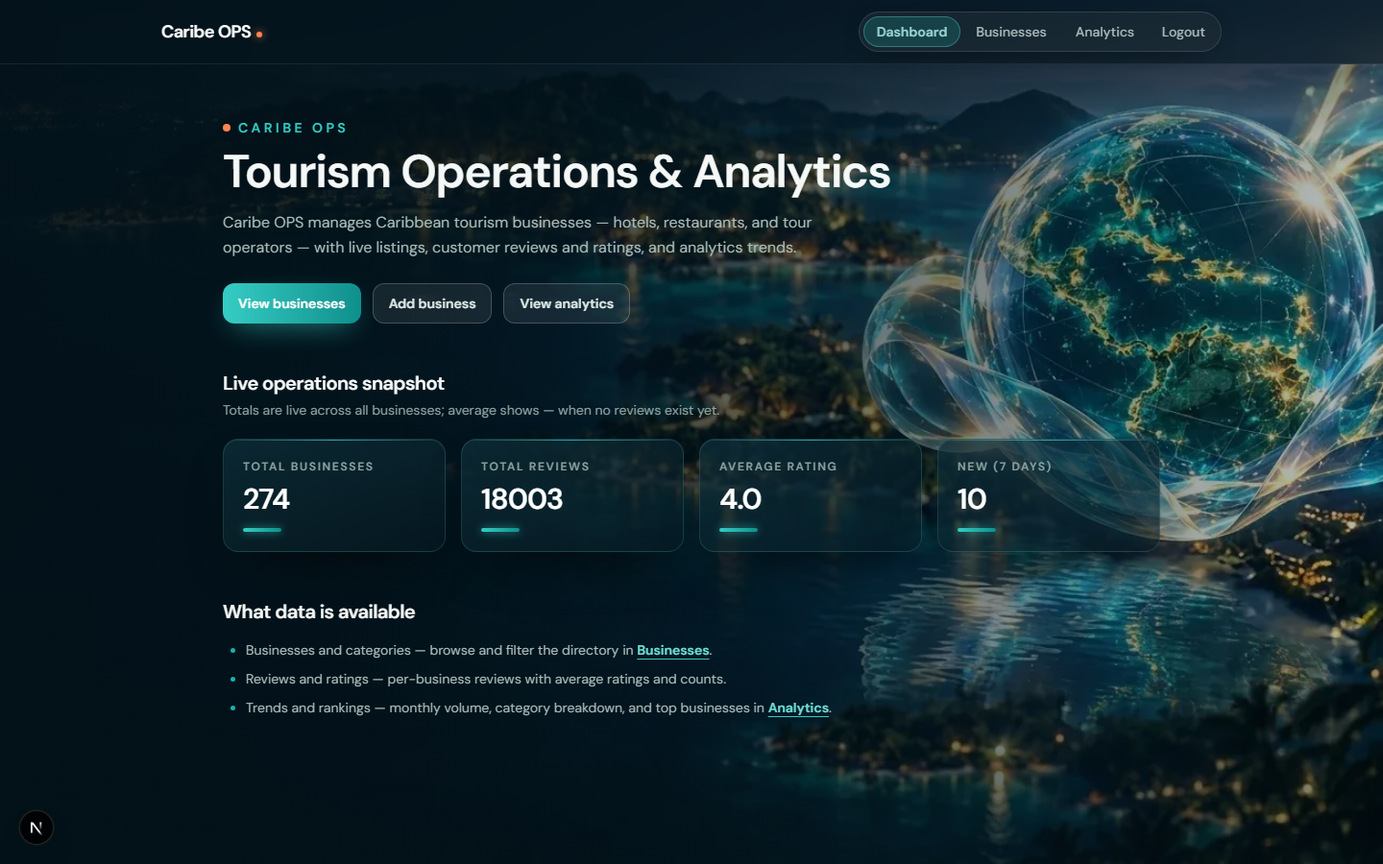
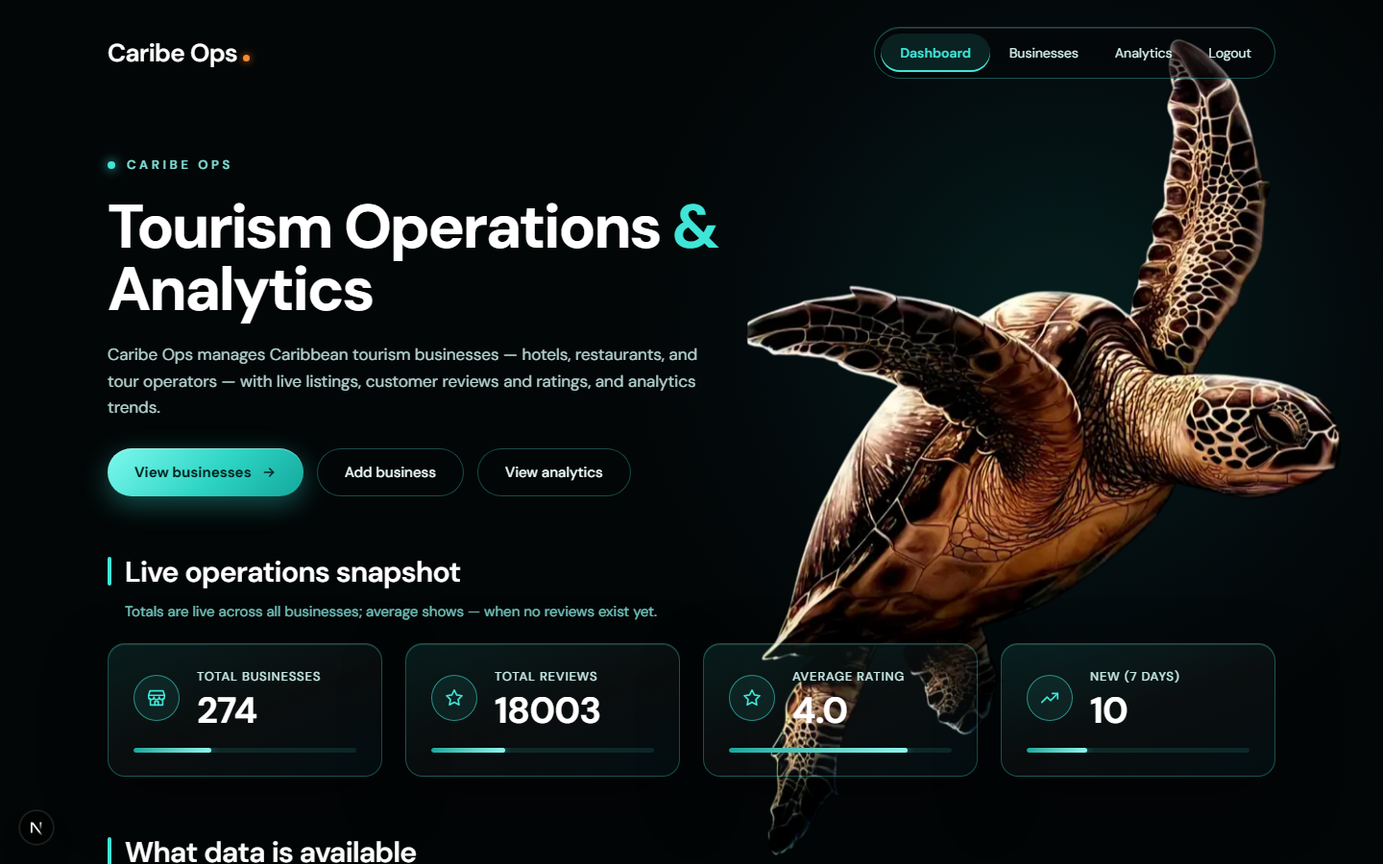
docs: redesign plan, MEMORY update and regenerated screenshots
Screenshot script waits for the 2s animal entrance and matches the new
donut viewBox.

diff --git a/docs/plans/glass-animal-redesign-all-views.md b/docs/plans/glass-animal-redesign-all-views.md
@@ -1,0 +1,147 @@
+# Plan: Rediseño visual "Login Ojo del Caribe" — fondo negro, vidrio y un animal por pantalla
+
+- **Task**: "Lee este diseño: Login Ojo del Caribe. Tiene 4 pantallas (Login, Dashboard, Analytics, Businesses). Rediseña mi web para que se vea igual: fondo negro, tarjetas de vidrio, un animal en cada pantalla con su animación de entrada, y la paleta de colores de cada página. Conserva mi lógica y mis datos reales; cambia solo la parte visual. Descarga también las imágenes de los animales que usa el diseño."
+- **Date**: 2026-10-23
+- **Status**: Implemented 2026-10-23 — verified (tsc 0, eslint 0, vitest 53/53, build 0, e2e 1/1, desktop + phone screenshots reviewed)
+
+## User decisions at approval (2026-10-23, override the plan where they differ)
+
+> "aprobado y respeta el nombre "Caribe Ops y un punto naranja" apesar que haya otros nombre o diseños ese es el que siempre debe estar y en el nevbar aveces aparece la opcion "login" eso quitalo no tiener sentido despues de ahi las paginas y sus derivados debe ser totalmente igual al diseño que estamos proponiendo"
+
+1. **Marca**: siempre el texto **"Caribe Ops"** + **punto naranja** (nav, login, título de pestaña y textos de la app), por encima de cualquier otro nombre del diseño ("ojo del caribe", "Caribe OPS", logo del ojo).
+2. **Navbar**: se elimina por completo el link **"Login"** (también para usuarios anónimos). Comportamiento nuevo: `NavLinks.test` se actualiza para reflejarlo.
+3. **Fidelidad**: las 4 páginas y sus derivadas (`/businesses/new`, `/businesses/[id]`, loading/error) deben ser iguales al diseño — layout, tamaños, header de cada página (Dashboard con pill grande sin barra; Analytics/Businesses con barra superior), dona y curva de Analytics (los componentes ya son dona/área: se ajusta su geometría y color al artboard), tarjetas KPI con icono y barra en el Dashboard. Los datos siguen siendo los reales.
+- **Design source**: Claude Design canvas "Login Ojo del Caribe" — https://claude.ai/artifact/QQ23fkG5dCiuMP2njy4Pnr (artboards `Main` = Login/Lapa, `Dashboard` = Tortuga, `Analytics` = Jaguar, `Businesses` = Perezoso)
+
+## Desired outcome
+
+Cada ruta de `frontend/next` se ve como su artboard del diseño:
+
+| Ruta | Animal (entrada) | Fondo | Acento principal | Acento secundario |
+|---|---|---|---|---|
+| `/login` | Lapa (guacamaya) — abajo a la derecha, emerge con blur → nítido | `#050505` | naranja `#FF7A1A` / amarillo `#FFC72C` | rojo `#E2231A` |
+| `/` (Dashboard) | Tortuga marina — arriba a la derecha | `#030607` | cian `#3FE6D8` | teal `#14A89C` |
+| `/analytics` | Jaguar — fijo a la izquierda | `#040503` | oliva `#B7CB5E` | ámbar `#F2A93B` |
+| `/businesses` (+ `/businesses/new`, `/businesses/[id]`) | Perezoso — fijo a la derecha, + palmera tenue al centro | `#050403` | verde `#A8E07A` / arena `#E2BE92` | naranja `#D9822B` |
+
+Fondo negro (sin foto nocturna), tarjetas de vidrio (degradado translúcido tintado con el color de la página + borde fino del acento + `backdrop-filter: blur(18px) saturate(1.2–1.3)` + sombra profunda), y la animación de entrada `emerge` del diseño (opacity 0 → 1, scale .72 → 1, translate, blur 18px → 0; 1.8–2 s, `cubic-bezier(.16,1,.3,1)`), desactivada con `prefers-reduced-motion`.
+
+## Scope
+
+- Solo la capa visual: CSS (`globals.css`), clases Tailwind y marcado decorativo de los componentes/páginas.
+- Un **tema por ruta** mediante variables CSS (ver "Concepto"), aplicado en el layout para que la barra de navegación también tome la paleta de la página.
+- Imágenes de los animales en `frontend/next/public/animals/` (**ya descargadas** en este stage porque el usuario lo pidió explícitamente; sin trackear todavía):
+  - `lapa.png` (640×1120), `tortuga.png` (1108×1520), `jaguar.png` (843×1190), `perezoso.png` (696×1313), `palmera.png` (706×1101). Todas PNG con transparencia (verificado: modo RGBA, esquina alpha 0).
+
+## Non-goals (explícitos)
+
+- **No** cambiar lógica ni datos: los fetch a Laravel/Go, `RequireAuth`, `LoginForm` (estado, validación, envío), `LogoutButton`, `DateRangeSelector`, `SearchInput`, `CategoryFilter`, paginación, formularios y sus validaciones quedan iguales.
+- **No** usar los números del mockup (274, 18002, "Chili Rojo"…): son datos de ejemplo; la app sigue mostrando los datos reales.
+- **No** copiar elementos del diseño que no existen en la app (p. ej. el gráfico de dona de Analytics si `CategoryChart` es de barras — se re-colorea, no se reescribe; el chip "Custom range" ya existe en `DateRangeSelector` con su propio comportamiento).
+- **No** cambiar textos, rutas, nombres accesibles ni el orden de los links del nav (contratos de los tests unitarios y del e2e).
+- **No** cambiar el nombre visible: se mantiene **"Caribe OPS"** (último commit `3a0255c`). El login deja el lockup "ojo del caribe" y pasa a "Caribe OPS" como en el artboard `Main` (decisión ya tomada por el diseño; se puede revertir en `/check` si el usuario prefiere conservarlo).
+
+## Analysis carried forward
+
+Evidencia recogida en esta sesión:
+
+1. **Diseño** (leído del artifact): 4 artboards `.dc.html`, fuente DM Sans (la app ya la usa vía `next/font`), cada uno con su propia paleta, fondo casi negro, glow radial tenue del color de la página, tarjetas de vidrio y un `<img>` del animal con máscara de degradado en el borde inferior y animación `*-emerge`. En móvil (<820/1000 px) el animal baja de opacidad (0.3–0.38) en vez de esconderse.
+2. **App actual** (`frontend/next`, Next 16.4.2, React 19.3, Tailwind v4):
+   - `src/app/globals.css` define tokens `@theme` (`--color-brand-50…900`, `--color-accent-*`, `--color-ivory`, `--color-surface`, `--color-ink-*`) y utilidades `.glass-card`, `.glass-glow`, `.anim-*`, `.lift`.
+   - 77 usos de utilidades `*-brand-*`/`*-accent-*` en `.tsx` → al **redefinir esas variables por tema** casi toda la app cambia de paleta sin tocar cada componente.
+   - Colores hardcodeados que **no** seguirían al tema: `NightBackdrop.tsx` (5), `(auth)/login/page.tsx` (5), `CategoryChart.tsx` (6 hex de la serie), `LoginForm.tsx` (rgba cian en tarjeta/botón, `ring-offset-[#06232a]`), `MonthlyChart.tsx` (`#052029`), `TopBusinesses.tsx` (`#2a0f04`), `KpiCard.tsx`, `Navigation.tsx`, `NavLinks.tsx`, `BusinessLocationPicker.tsx` (1 c/u).
+   - Shell: `src/app/(app)/layout.tsx` = `NightBackdrop` + `Navigation` + children; `/login` vive en `(auth)` sin nav y con su propia foto `public/login/caribbean-night.webp`.
+   - Tests: Vitest (51 tests, contratos por texto/rol) + Playwright `e2e/auth-flow.spec.ts`. Ninguno referencia la foto de fondo ni "ojo del caribe".
+3. **Git**: `master` limpio al inicio de la sesión; único cambio local de este stage = `public/animals/*.png` (sin trackear) y este plan.
+
+## Concepto (just-in-time)
+
+**Temas con variables CSS.** En Tailwind v4 cada token de `@theme` es una variable CSS (`--color-brand-300`), y la utilidad `text-brand-300` compila a `color: var(--color-brand-300)`. Si un contenedor declara `[data-theme="jaguar"] { --color-brand-300: #c3d672; }`, todo lo que esté dentro usa el oliva, sin cambiar ninguna clase. Así una sola clase `text-brand-300` sirve para cian en el Dashboard y oliva en Analytics.
+
+**Animación de entrada solo con compositor.** `opacity`, `transform`/`scale`/`translate` y `filter` se animan en GPU sin re-layout. Usamos `key={pathname}` en el componente del animal para que React lo vuelva a montar al navegar y la animación se repita.
+
+## Learning objectives
+
+1. Theming por scope con variables CSS en Tailwind v4.
+2. Separar "pixeles" de "lógica": un rediseño completo sin tocar ningún fetch ni handler.
+3. `next/image` con PNG transparente (Next sirve WebP/AVIF optimizado automáticamente; no hace falta convertir a mano).
+4. Animaciones accesibles (`prefers-reduced-motion`) y decorativas (`alt=""`, `aria-hidden`).
+
+## Ordered implementation steps
+
+1. **Tokens por tema** — `globals.css`:
+   - Fondo base negro (`--color-ivory: #050505`) y `--color-surface` neutro.
+   - Bloques `[data-theme="lapa|tortuga|jaguar|perezoso"]` que redefinen `--color-brand-50…900`, `--color-accent-*`, más variables nuevas `--page-bg`, `--glass-from`, `--glass-to`, `--glass-border`, `--glass-highlight`, `--glow` (valores tomados literalmente de cada artboard; rampa brand 200–400 = acento claro para texto, 500–900 = oscuro para pills con texto blanco/oscuro como hoy).
+   - `.glass-card` y `.glass-glow` pasan a leer esas variables (degradado 160°, borde 1px, blur 18px saturate 1.25, sombra `0 24px 60px rgba(0,0,0,.5)` + inset highlight).
+   - Keyframe `emerge` + clase `.anim-emerge` (+ variante `from-right` para el jaguar que entra desde la derecha) y `.anim-palm-fade`; añadirlas al bloque `prefers-reduced-motion`.
+   - *Por qué*: un único punto de verdad; los componentes casi no cambian.
+2. **`AnimalBackdrop`** (nuevo, client island, reemplaza a `NightBackdrop`): lee `usePathname()`, decide el tema (`/analytics*` → jaguar, `/businesses*` → perezoso, resto → tortuga), pinta fondo `--page-bg` + glow radial + `<Image>` del animal (posición/tamaño/máscara del artboard, `priority`, `sizes` acotado, `alt=""`, `aria-hidden`) con `key={pathname}`; en perezoso añade la palmera. Responsive como el diseño (opacidad reducida bajo 820/1000 px).
+3. **`ThemeShell`** (client, mínimo): envuelve el contenido de `(app)/layout.tsx` en `<div data-theme={…}>` usando la misma función de mapeo (exportada desde `src/lib/theme.ts`) para que nav, tarjetas y botones compartan la paleta. Borrar `NightBackdrop.tsx` y dejar `public/general-caribbean-night.webp` sin uso (se elimina en el mismo commit si nada más la referencia — se verifica con grep).
+4. **Navegación** — `Navigation.tsx`/`NavLinks.tsx`: barra superior con vidrio oscuro + borde inferior del acento; pill del nav con borde del acento; item activo con fondo `brand-500/20`, texto `brand-200` y borde del acento (como Analytics/Businesses), punto del logo en `accent-400`. Mismos links, mismo orden, mismo `LogoutButton`.
+5. **Login** — `(auth)/login/page.tsx` + `LoginForm.tsx` (solo clases): `data-theme="lapa"`, fondo `#050505`, lapa abajo-derecha con máscara y `emerge`, glow rojo-naranja a la izquierda, columna alineada a la izquierda (`padding-left: clamp(24px, 9vw, 140px)`), logo ojo naranja/amarillo/rojo, "Caribe OPS", `h1` 64 px, tarjeta de vidrio cálida, inputs con icono y foco naranja, botón píldora con degradado `#FFC72C → #FF7A1A → #F04A1E` y texto oscuro. Se quita la foto `public/login/caribbean-night.webp` del login (archivo eliminado si no tiene otros usos). Estados de error/pending/toggle de contraseña intactos.
+6. **Dashboard** — `(app)/page.tsx`, `KpiCard.tsx`: hero con eyebrow (punto con glow), `h1` grande con "&" en acento, botones primario (degradado cian) / secundarios (vidrio con borde); títulos de sección con barra vertical de acento; `KpiCard` con vidrio + barra de progreso decorativa con glow (sin inventar porcentajes: barra de ancho fijo decorativo, `aria-hidden`); lista "What data is available" con viñetas de punto.
+7. **Analytics** — re-colorear con tokens: `CategoryChart` toma su serie de variables (`var(--chart-1…6)` definidas por tema) en vez de hex fijos; `MonthlyChart` área/linea en `brand-300` y relleno de puntos `var(--page-bg)`; `TopBusinesses` #1 en ámbar (`accent-400`) y el resto con borde oliva; chips de `DateRangeSelector` solo clases.
+8. **Businesses** (`page.tsx`, `BusinessList`, `SearchInput`, `CategoryFilter`, `businesses/new`, `businesses/[id]`, `BusinessForm`, `ReviewForm`, `ReviewList`, `loading.tsx`, `error.tsx`): tarjetas de vidrio arena/verde, botón "New business" con degradado arena→verde, estrellas en `accent`, inputs vidrio oscuro con foco verde. `BusinessLocationPicker` solo cambia su color hardcodeado.
+9. **Primitivas compartidas** — `lib/ui.ts` (`buttonClassName` primario = degradado del acento con texto oscuro `text-[var(--on-accent)]`, secundario vidrio; `inputClassName`; `focusRing` con `ring-offset-[var(--page-bg)]`), `Card`, `SectionHeading`, `LoadingSkeleton`, `EmptyState`, `SectionFallback`.
+10. **Contraste**: comprobar 4.5:1 para texto normal de cada paleta sobre su fondo (los acentos del diseño son claros sobre casi negro → pasan; revisar textos secundarios con alpha 0.7–0.78).
+11. **Commits atómicos** (sin push): (a) `chore(assets): add design animal images`; (b) tokens/tema + backdrop + shell; (c) nav; (d) login; (e) dashboard; (f) analytics; (g) businesses; (h) docs/MEMORY.
+12. Actualizar `MEMORY.md` (tres secciones) y el estado de este plan con los resultados reales.
+
+## Tests & verification
+
+Desde `frontend/next`:
+
+| Comando | Esperado |
+|---|---|
+| `npx tsc --noEmit` | 0 errores |
+| `npm run lint` | 0 errores |
+| `npm test` | 51/51 (ningún test cambia: los contratos son texto/rol) |
+| `npm run build` | build OK (las páginas siguen sin necesitar backends) |
+| `npm run test:e2e` (con el stack docker arriba) | `auth-flow` 1/1 |
+| `grep -rn "general-caribbean-night\|login/caribbean-night\|NightBackdrop" src` | sin resultados |
+| Revisión visual de las 4 rutas a 1440 px y 390 px | coincide con los artboards; con `prefers-reduced-motion` no hay animación |
+
+## Risks, dependencies, open questions
+
+- **Peso de imágenes**: PNG de 1.1–1.6 MB; `next/image` las sirve optimizadas (WebP/AVIF, tamaño según `sizes`). Riesgo bajo; si el LCP empeora, pre-convertir a WebP con `sharp` (ya instalado como dependencia de Next).
+- **`backdrop-filter` en muchas tarjetas** puede costar en móviles de gama baja; el diseño lo exige. Mitigación: fondo de tarjeta suficientemente opaco para no depender del blur (`@supports not (backdrop-filter…)`).
+- **Gráficos**: el diseño muestra dona/área; la app tiene sus propios componentes. Solo se re-colorean (non-goal reescribirlos). Si el usuario quiere la dona literal, es otra tarea.
+- **Rutas sin artboard** (`/businesses/new`, `/businesses/[id]`): heredan el tema Perezoso — supuesto razonable.
+- **Nombre en el login**: pasa de "ojo del caribe" a "Caribe OPS" siguiendo el artboard.
+
+## Plan check
+
+Revisado contra el repositorio y el diseño el 2026-10-23:
+
+- ✅ Todos los archivos listados existen (verificado con `find src`).
+- ✅ Tailwind v4 + `@theme` → el theming por variables funciona sin plugin.
+- ✅ Ningún test depende de los assets de fondo ni del texto "ojo del caribe" (grep en `src` y `e2e`).
+- ✅ DM Sans ya cargada vía `next/font`; no hace falta el `<link>` de Google Fonts del diseño.
+- ✅ Imágenes descargadas desde los assets del canvas y verificadas (tamaños y transparencia arriba). Mapeo blob → archivo: `c7340fe7…` lapa, `61e193d5…` tortuga, `3d666e72…` jaguar, `968f5145…` perezoso, `fc6eee7a…` palmera.
+- ⚠ Ajuste aplicado al plan: `CategoryChart` usa hex fijos → se pasa a variables por tema (paso 7) para que no quede cian en Analytics.
+- ⚠ Ajuste aplicado: `focusRing` usa `ring-offset-ivory`; con fondos por página se cambia a `var(--page-bg)` (paso 9).
+- Decisiones abiertas para el usuario (con default recomendado): nombre del login → "Caribe OPS" (default); gráficos → solo re-color (default).
+
+## Implementation outcome (2026-10-23)
+
+Approved by the user ("continua a lo que entiendas" + the approval message quoted at the top). Follow-ups requested **during** implementation, all applied:
+
+1. "el diseño de navbar del dashboard y el resto de secciones es diferente, adapta todos al estilo del dashboard" → one header style on every page (transparent, brand left, large glass pill with bottom-glow active item), coloured by the page theme. Analytics/Businesses content now sits on the same centred 1360px grid as the header.
+2. "agrega un nav burger para las vistas de celular" → at ≤720px the pill becomes a burger button (`aria-expanded`/`aria-controls`, Escape closes and returns focus, closes on navigation) that opens a solid dropdown with the same links. Links stay in the DOM.
+3. "ajusta las imagenes en las vistas de celular también" → on phones each animal shrinks, peeks in from an edge and fades (30–40%) behind the content. Position/opacity live on a wrapper so the entrance animation (which ends at opacity 1) cannot override them.
+4. "en el login centra un poco más el formulario…", "haz que el formulario del login sea más grande", "centra más el formulario y pon la sombra naranja atrás de él" → the login column starts at `clamp(24px,24vw,380px)`, the card is 600px wide (p-10, 56px fields, 56px button, 72px title), and the warm orange radial glow is centred behind the form.
+
+What was built:
+- **Theme system**: `globals.css` `[data-theme="lapa|tortuga|jaguar|perezoso"]` blocks redefine the same tokens (`brand-*`, `accent-*`, `ink-*`, `ivory`, `surface`) plus `--page-bg`, `--glass-*`, `--btn-*`, `--chart-1…6`, `--brand-dot`. New utilities: `.theme-page`, themed `.glass-card`, `.glass-hover`, `.glass-field`, `.btn-accent`, `.btn-glass`, `.brand-dot`, `.site-*` header, `.anim-emerge`, `.anim-palm` (reduced-motion safe).
+- `src/lib/theme.ts` (`themeForPath`), `src/components/ThemeShell.tsx` (sets `data-theme`; keys `AnimalBackdrop` by theme so the entrance replays per section), `src/components/AnimalBackdrop.tsx` (tortuga/jaguar/perezoso + palm; `next/image` with `preload`, since Next 16 deprecated `priority`).
+- Brand everywhere: **"Caribe Ops" + orange dot** (nav, login, tab title, hero copy). **No Login link in the nav** (`NavLinks.test` rewritten: 5 tests incl. the burger).
+- Dashboard: feature KPI cards (icon, 38px value, glowing track — the rating track is real `avg/5`; the count tracks are fixed decorative lengths from the design, `aria-hidden`), bar headings, gradient/glass CTAs.
+- Analytics: donut redrawn to the artboard geometry (r46, stroke 18, slice gaps, centre total, 2-col legend, theme colours); area chart rebuilt like the design (HTML axes, gradient area, ringed points, amber peak, focusable points with tooltip; phones show every 3rd month label); ranked list with amber #1.
+- Businesses (+ detail, new, loading, error): sand/green glass cards (a stretched link keeps the name as the accessible name), search with icon, glass select, gradient "New business".
+- Login: lapa theme, macaw bottom-right, orange gradient pill, warm glass card; auth logic untouched.
+- Removed: `NightBackdrop.tsx`, `public/general-caribbean-night.webp`, `public/login/caribbean-night.webp` (no remaining references). Added `public/animals/{lapa,tortuga,jaguar,perezoso,palmera}.png`.
+- `scripts/make-screenshots.mjs`: settle 1200→2600ms (2s animal entrance) and donut selector viewBox 160→120; `docs/screenshots/*.png` regenerated.
+
+Verification (from `frontend/next`): `npx tsc --noEmit` exit 0 · `npm run lint` exit 0 · `npm test` **53/53** (11 files) · `npm run build` exit 0 (9 routes) · `E2E_BASE_URL=http://127.0.0.1:3000 npx playwright test` **1/1** (with a throwaway :3101 stub so the user's dev server was not stopped) · Playwright screenshots at 1440×900 and 390×844 of login, dashboard, analytics, businesses, new, detail and the open burger menu: no console errors, no horizontal scroll (scrollWidth = viewport).
+
+Notes: the dev server served a stale stylesheet for a while (the rule was in the production build but missing from `:3000`); it caught up on its own — restart `next dev` if styles ever look outdated. Pre-existing and out of scope: the business detail can show "No ratings yet" while listing reviews (it comes from the API's `average_rating`).

diff --git a/MEMORY.md b/MEMORY.md
@@ -2,6 +2,7 @@
 
 ## Last files modified
 
+- **Glass + animal redesign (2026-10-23, plan `docs/plans/glass-animal-redesign-all-views.md`)** — `frontend/next/src/app/globals.css` (per-page `data-theme` token blocks + glass/button/header/animation utilities); new `src/lib/theme.ts`, `src/components/ThemeShell.tsx`, `src/components/AnimalBackdrop.tsx`, `public/animals/{lapa,tortuga,jaguar,perezoso,palmera}.png`; restyled `src/app/layout.tsx`, `(app)/layout.tsx`, `(app)/page.tsx`, `(app)/analytics/page.tsx`, `(app)/businesses/{page,loading,error}.tsx`, `(app)/businesses/[id]/page.tsx`, `(app)/businesses/new/page.tsx`, `(auth)/login/page.tsx`; components `Navigation`, `NavLinks` (Login link removed + phone burger), `LogoutButton`, `KpiCard` (feature variant), `GoKpiSection` (variant prop), `LoadingSkeleton`, `CategoryChart`, `MonthlyChart`, `TopBusinesses`, `Category/Monthly/TopSection`, `DateRangeSelector`, `BusinessList`, `SearchInput`, `CategoryFilter`, `ReviewList`, `ReviewForm`, `BusinessForm`, `NewBusinessForm`, `BusinessLocationPicker`, `Card`, `SectionHeading`, `PageContainer`, `EmptyState`, `SectionFallback`, `src/lib/ui.ts`; test `__tests__/NavLinks.test.tsx`; `scripts/make-screenshots.mjs`; `docs/screenshots/*.png`. Deleted `src/components/NightBackdrop.tsx`, `public/general-caribbean-night.webp`, `public/login/caribbean-night.webp`.
 - `frontend/next/package.json` + `package-lock.json` + `next.config.ts` — Caribbean-night session (2026-10-23, commit `6905235`): Next.js + eslint-config-next `^16.4.0` → `^16.4.2` (security) and `experimental.agentUpgrade: "security"`. The abandoned 3D WebGL WIP was dropped in the same working session — `three`/`@react-three/*` removed from `package.json` (`npm install` pruned 57 packages), `src/components/three/{LoginScene,GlassWaveHero,GlassWaveAccent,GlassWave}.tsx`, `src/components/MareaScene.tsx` and `src/lib/useParallax.ts` deleted — none were ever tracked, so the committed diff is a **pure upgrade** (three.js never enters history). Verified: tsc 0, eslint 0, 51/51, build 0 on Next 16.4.2.
 - Route-group restructure (commit `20e6d75`): the 8 staged renames landed as pure 100%-similarity moves committed **from the index** (light content) before any theme edits: `src/app/{page,businesses/**,analytics/page}.tsx` → `src/app/(app)/**`, `src/app/login/page.tsx` → `src/app/(auth)/login/page.tsx`. URLs unchanged (route groups don't affect paths); content edits stayed unstaged for later commits.
 - `frontend/next/src/app/globals.css` — night-theme foundation (commit `4691e99`): token **names kept, values inverted** for dark (ink-100/200 → white-alpha borders/hover wash only — verified no `text-ink-100/200` exists; ink-900 → `#f4f8f7` headings; ivory → `#04141c` deep sea; surface → `rgba(9,32,41,0.62)` glass; brand ramp retuned glow-cyan at 200–400 with deep 500–900 kept for white-text pills), `color-scheme: dark`, cyan `::selection`, new `.glass-card` / `.glass-glow` utilities, motion keyframes.
@@ -322,6 +323,8 @@
 
 ## Last task implemented
 
+Glass + animal redesign (2026-10-23, application UI change). Source: the user's Claude Design canvas "Login Ojo del Caribe" (4 artboards: Login/lapa, Dashboard/tortuga, Analytics/jaguar, Businesses/perezoso). The plan `docs/plans/glass-animal-redesign-all-views.md` went analyse → plan → check → approved; the user then added rules during implementation: the brand is always **"Caribe Ops" + orange dot**; **no Login link** in the nav; pages and sub-pages match the design; every page uses the **dashboard-style navbar**; **burger menu on phones**; animals resized for phones; the login form is larger and more centred, with the orange glow behind it. Result: near-black pages, themed glass cards, one animal per section with a blur-to-sharp entrance (reduced-motion safe), per-page palettes via `data-theme` token overrides, and donut/area charts redrawn to the artboard geometry — all on real Laravel/Go data with fetch/auth logic unchanged. Verification from `frontend/next`: tsc 0, eslint 0, vitest **53/53**, build 0, Playwright e2e **1/1** (`E2E_BASE_URL=http://127.0.0.1:3000` + throwaway :3101 stub), desktop 1440×900 + phone 390×844 screenshots reviewed (0 console errors, no horizontal scroll), README screenshots regenerated.
+
 Caribbean-night frontend (2026-10-23, user-approved overnight run — "acepta todo con la opción recomendada, la idea es que tú termines y yo mañana en la mañana reviso"; approved without the orchestrator pipeline because the scope came from direct user follow-ups during execution). Three user asks drove it: (1) implement the login mockup (task `login-ojo-del-caribe-ui`, plan was already `Checked`); (2) *"haz que la esfera resalte más, que no se vea tan opaca"* — the globe must pop; (3) *"continúa con el resto de vistas utilizando el general-caribbean-night.jpg"* + keep the mockup's top pill nav / glass KPI cards / "Tourism Operations & Analytics" hero — i.e. the dark photographic theme across every view; plus *"ve dividiendo todo por commits y actualiza los screenshots al final"*. The abandoned three.js/WebGL WIP was discarded entirely (never tracked → zero footprint), Next.js went 16.4.0 → 16.4.2 (security), and the work landed as **8 commits on `master` (not pushed)**: `6905235` Next upgrade · `20e6d75` route groups `(app)`/`(auth)` (index-only, pure renames) · `4691e99` night-theme foundation (inverted token values, shared `NightBackdrop`, glass shell + primitives) · `7954a31` theme applied to all views + contrast fixes · `71174fe` login toggle `title` contract fix · `bf51fa7` regenerated screenshots · e2e nav-step scoping fix + plan/MEMORY bookkeeping amendments. Key design decisions: one shared fixed backdrop at the **root layout** (single cached photo download, left-dark scrim keeps text AA while the right side of the photo stays vivid — that is what makes the globe pop on both login and dashboard), token **names preserved with values inverted** so every existing `text-ink-*`/`border-ink-*` flips coherently, and `.glass-card`/`.glass-glow` utilities behind Card/KpiCard. Two defects were found and fixed during verification: the `images.qualities` warning (`quality={78}` → `75`) and the Playwright strict-mode collision (`aria-label="Show password"` substring-matched `getByLabel("Password")` → moved the toggle's name to `title`, keeping the e2e contract string untouched). A console hydration warning (`caret-color:"transparent"` on inputs) was investigated and **dismissed as an environment artifact** — the string exists nowhere in the source; React's own message attributes it to a browser extension injecting styles pre-hydration. Verification from `frontend/next/`: `npm test` **51/51 (11 files, incl. 5 new LoginForm tests)**, `npx tsc --noEmit` exit 0, `npx eslint src` exit 0 (0 warnings — also clears the pre-existing `react-hooks/set-state-in-effect` error that only existed because of the deleted 3D code), `npm run build` exit 0 (9 routes on Next 16.4.2, no three.js chunk), `scripts/make-screenshots.mjs` **5/5 captured** and `npx playwright test` **1/1 passed** (4.1s — its nav step needed scoping to the Primary nav, a pre-existing strict-mode break from D7-01's dashboard links, not a regression); browser-checked all views at 1440×900 (login, dashboard, business list, business detail, new-business form, analytics top + bottom) against the mockup description. `docs/plans/login-ojo-del-caribe-ui.md` marked implemented with the full outcome.
 
 Same-day follow-up session on 2026-10-23 (direct user asks during live review, no orchestrator pipeline; five code commits + a Laravel dependency update). **(1) Logout left stale credentials on the login (`723cc29`).** `cacheComponents: true` (Next 16) keeps the login route mounted-but-hidden inside a React `<Activity>` instead of unmounting — confirmed in-browser (both `<main>`s live in the body at once, zero input events on re-show) and against `node_modules/next/dist/docs/02-guides/preserving-ui-state.md` — so `useState` and the controlled `<input>` values survived logout and pre-filled the form next time. Fix: an unconditional `useLayoutEffect` cleanup in `LoginForm` that wipes `email`/`password`/`revealed`/`status` whenever the route hides (credentials are never a draft worth restoring). Verified: two logout cycles → empty fields, no stale "Logged in successfully.", re-login works; 51/51 + e2e 1/1. **(2) Login re-matched to the reference mockup (`d4e7bb4`)** after the user listed four deltas — no navbar ("lo único que no va es el navbar"), background must not look opaque, use the login's own `public/login/caribbean-night.webp`, and components must look like the image: the top bar was removed (brand lockup back above the form, left-aligned `max-w-lg` column), the login now renders that webp full-bleed and vivid with no scrim/wash, and the card/inputs/button got the mockup's cyan glowing borders + `p-8` + `you@example.com` placeholder + `rounded-full` pill. Shared `NightBackdrop` moved root layout → `(app)` layout so the two photos never stack or double-download (app views stayed byte-identical; only login.png changed). **(3) Photos converted to webp (`8c37fa0`):** `general-caribbean-night.jpg` → `.webp` (95 KB) with `NightBackdrop` and its comments repointed; all five screenshots regenerated. **(4) Laravel updated (`63dc7aa`):** `composer update` within existing constraints → framework 13.36.0 → 13.38.0 (phpunit 12→13 major skipped), 0 advisories; `php artisan test --compact` 78/78 + pint clean; container rebuilt and redeployed (vendor is baked into the image) → reports 13.38.0, `/api/health` ok, e2e 1/1. **(5) Display name settled on "Caribe OPS" (`3a0255c`):** renamed from "Ojo del Caribe" to the exact spaced spelling the user typed (confirmed via a question) across nav wordmark + tab title + dashboard hero eyebrow/lede; the login keeps its lowercase "ojo del caribe" mockup lockup + subtitle (out of scope of that rename). E2E re-run 4× this session (1/1 each) using `E2E_BASE_URL=http://127.0.0.1:3000` plus a throwaway `:3101` listener so the user's dev server was never killed (Next 16 allows only one dev server per directory). Screenshots regenerated after every visual change. Now 16 commits on `master` (`6905235` → `3a0255c`), **not pushed**.
@@ -511,6 +514,8 @@ D3-19 on 2026-10-11 added category filtering (backend `?category_id=` `when()` f
 ## What the system does now
 
 CaribeOps is a learning and portfolio monorepo for a tourism operations and analytics platform. Its planned stack is Next.js for the dashboard, Laravel for the core API, Go for read-heavy analytics, PostgreSQL for persistence, and Docker Compose for local development.
+
+Visual theme (2026-10-23, current — supersedes the Caribbean-night photo theme described below): the frontend follows the "Login Ojo del Caribe" design. Every page is near-black with translucent tinted glass cards and its own animal and palette, chosen by route in `src/lib/theme.ts` and applied as `data-theme` by `ThemeShell` in the `(app)` layout (the login sets `data-theme="lapa"` itself): `/login` lapa (orange/yellow), `/` tortuga (cyan), `/analytics` jaguar (olive/amber), `/businesses*` perezoso (green/sand + faint palm). `globals.css` keeps the Tailwind token names (`brand-*`, `accent-*`, `ink-*`, `ivory`, `surface`) and redefines their values per theme, so existing utility classes follow the page. Animals (`public/animals/*.png`, transparent PNGs via `next/image` `preload`) emerge blur→sharp over 2s, replay when the section changes, and shrink/fade on phones. Header: the same dashboard-style header everywhere — "Caribe Ops" + orange dot and a large glass pill (Dashboard, Businesses, Analytics, Logout; **no Login link**); at ≤720px a burger button opens a solid dropdown with the same links. The Dashboard has icon KPI cards; Analytics has the themed donut, area chart and ranked list; Businesses uses glass cards with a stretched link. The old `NightBackdrop` and both caribbean-night photos are deleted. Verified 2026-10-23: tsc 0, eslint 0, 53/53 unit tests, build 0, e2e 1/1.
 
 Visual theme (2026-10-23, implemented + committed): the whole frontend now uses a **dark Caribbean-night photographic theme** built on `frontend/next/public/general-caribbean-night.webp` (95 KB — the user converted the photos and asked for them to be used; the .jpg is gone). A single `NightBackdrop` (`next/image` fill, quality 75, priority) is fixed `-z-10` in the **(app) layout** (moved out of the root layout when the login got its own photo), so every authenticated view shares one cached download; its scrims (left-dark directional `linear-gradient(95deg, 0.94 → 0.14)` + vertical wash) keep left-aligned text at AA while the photo's right side — the glowing globe — stays vivid (all washes are gone from the login now — it renders its own vivid caribbean-night.webp full-bleed, per "haz que la esfera resalte más"). The shell is a sticky glass top bar with a floating glass pill nav (brand wordmark "Caribe OPS" + coral dot on the left — the exact spaced spelling the user chose after the app-wide rename, superseding both "CaribeOps" and "Ojo del Caribe" — pill row with cyan-glow active state on the right; the lowercase "ojo del caribe" lockup stays login-only because it comes from the reference mockup). `globals.css` keeps every token **name** but inverted **values** (ink-900 = near-white headings, ink-100/200 = white-alpha borders/hover only, ivory = `#04141c`, surface = translucent glass, brand ramp = glow-cyan with deep ends kept for white-text pills, `color-scheme: dark`), plus `.glass-card`/`.glass-glow` utilities that Card and KpiCard consume — so KPI cards show the mockup's top cyan glow hairline. All views are restyled with targeted contrast fixes (bright cyan links/chips, bright-cyan donut ramp, solid dark chart tooltip, coral #1 rank badge with dark text, accent-tinted error notice, translucent cyan in-range days). The login form keeps `getByLabel("Email"/"Password")` + `getByRole("button",{name:"Log in"})` as written: the show/hide toggle's name comes from `title`, not `aria-label`, so Playwright's substring `getByLabel("Password")` resolves to the input alone. Because `cacheComponents: true` keeps routes mounted-but-hidden in a React `<Activity>`, `LoginForm` also carries an unconditional `useLayoutEffect` reset so logging out never resurrects the previous credentials. The backend is now Laravel 13.38.0 (updated from 13.36.0 in the same session; `php artisan test --compact` 78/78, pint clean, container rebuilt). Verified 2026-10-23: 51/51 unit tests (11 files), tsc 0, eslint 0, build 0 (9 routes, Next 16.4.2 security upgrade), **Playwright e2e 1/1** (login → dashboard → nav Businesses → detail; required one scoping fix for a pre-existing D7-01 ambiguity at the nav step — the login selectors themselves work as written), all five `docs/screenshots/*.png` regenerated at 1440×900 showing the night theme. The first landing was 8 commits; the same-day follow-up session (rename cycle, login Activity reset, mockup re-match, webp swap, Laravel 13.38.0, final "Caribe OPS" naming) brings it to 16 commits on `master`, **not pushed**.
 
